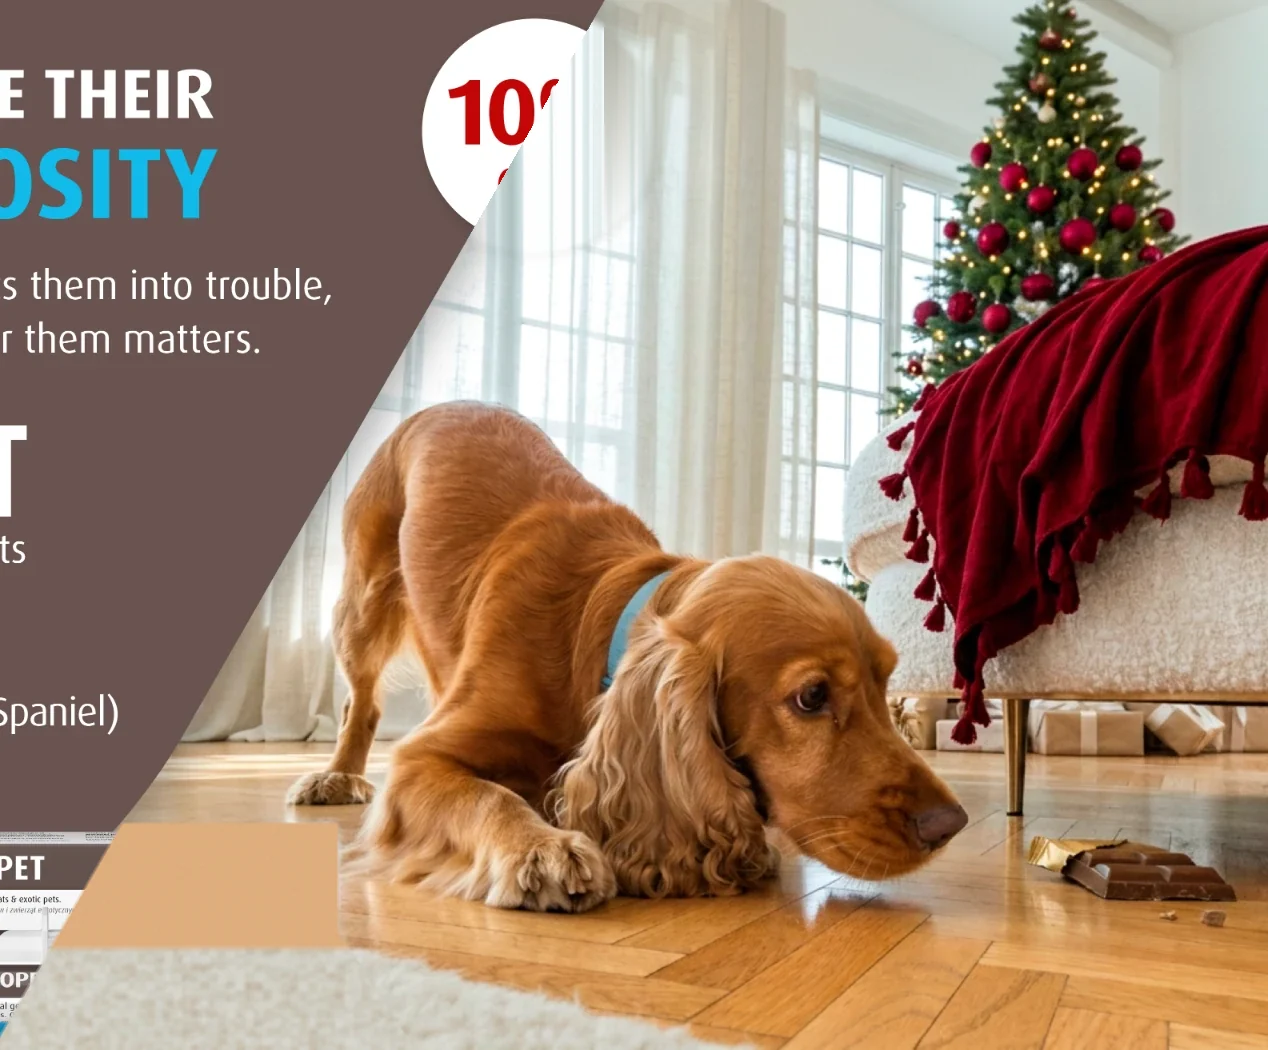
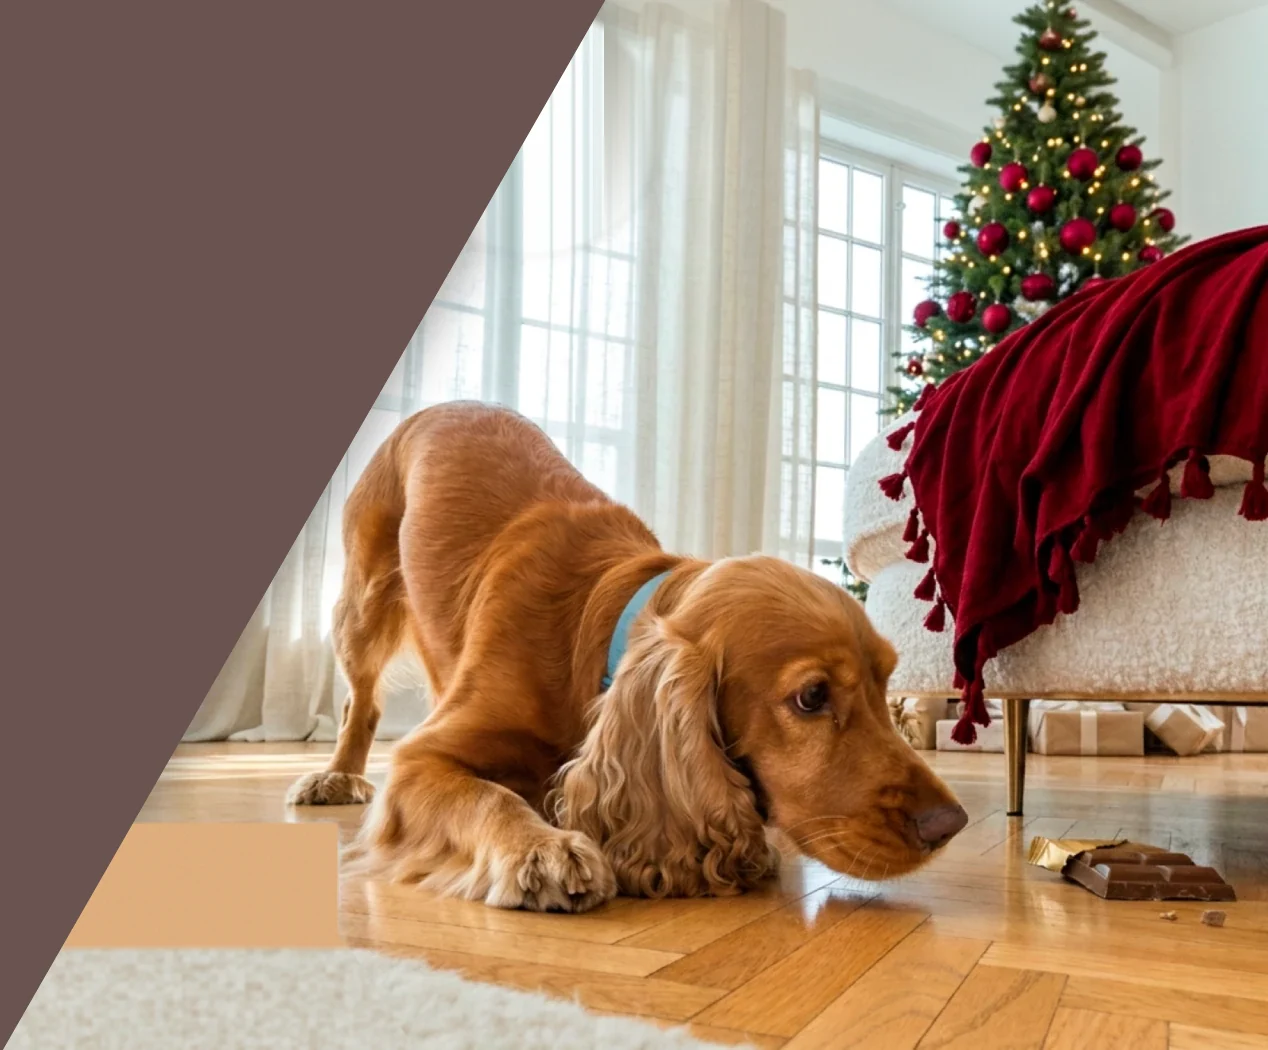
CharcoPet landing: compact first screen, drop offer roundel and eyebrow rules
- Hero and key-facts strip now share the viewport height on desktop: type,
  spacing and the photo scale with the window height (600-870px), so the
  strip is visible without scrolling
- Remove the "10% OFF" roundel from the hero, the leftovers of it in the
  hero photo file, and from the social share image
- Remove the short rule in front of section eyebrow labels

Claude-Session: https://claude.ai/code/session_012sbNdafQU1UvaYmf7wboRR

diff --git a/charcopet/assets/css/charcopet.css b/charcopet/assets/css/charcopet.css
@@ -75,10 +75,9 @@ h1 em,h2 em{
 .lead{font-size:17.5px;font-weight:400;color:#5c5b60;max-width:640px;text-wrap:pretty}
 
 .eyebrow{
-  display:flex;align-items:center;gap:8px;font-size:11px;font-weight:800;letter-spacing:.16em;
+  font-size:11px;font-weight:800;letter-spacing:.16em;
   text-transform:uppercase;color:var(--forte-blue-ink);margin-bottom:12px;
 }
-.eyebrow::before{content:'';width:20px;height:1.5px;background:currentColor;flex:none}
 .micro-label{
   display:inline-flex;align-items:center;font-size:10px;letter-spacing:.1em;text-transform:uppercase;
   color:var(--forte-blue-ink);font-weight:800;
@@ -220,7 +219,7 @@ footer.site-footer{background:var(--forte-black);color:rgba(255,255,255,.78);fon
     linear-gradient(180deg,#fff 0%,var(--forte-grey-tint) 100%);
 }
 .cp-hero__grid{display:grid;grid-template-columns:minmax(0,480px) minmax(0,1fr);gap:84px;align-items:center}
-.cp-hero h1{font-size:clamp(36px,4.6vw,58px);margin:0 0 20px}
+.cp-hero h1{font-size:clamp(36px,4.6vw,58px);line-height:1.14;margin:0 0 20px}
 .cp-hero .lead{font-size:clamp(17.5px,1.5vw,20px);max-width:440px;margin-bottom:30px}
 
 .cp-lockup{padding-top:26px;border-top:1px solid var(--cp-taupe-line);margin-bottom:34px}
@@ -240,9 +239,9 @@ footer.site-footer{background:var(--forte-black);color:rgba(255,255,255,.78);fon
 .cp-hero .btn-ghost{background:rgba(65,64,66,.075)}
 .cp-hero .btn-ghost:hover{background:rgba(65,64,66,.13)}
 
-/* Hero visual — photo + pack + offer roundel share one coordinate system, so
-   every child is positioned in % of the supplied banner artwork. */
-.cp-hero__visual{position:relative;width:100%;aspect-ratio:1268/1050;container-type:inline-size}
+/* Hero visual — photo and pack share one coordinate system, so every child is
+   positioned in % of the supplied banner artwork. */
+.cp-hero__visual{position:relative;width:100%;aspect-ratio:1268/1050}
 .cp-hero__shape{position:absolute;clip-path:url(#cpHeroClip);pointer-events:none}
 .cp-hero__shape--tint{inset:-7% 7% 9% -8%;background:linear-gradient(150deg,rgba(0,171,230,.13),rgba(0,171,230,.03) 70%)}
 .cp-hero__shape--blue{inset:6% -4.5% -5.5% 7%;background:var(--grad)}
@@ -253,18 +252,48 @@ footer.site-footer{background:var(--forte-black);color:rgba(255,255,255,.78);fon
   position:absolute;left:-12.57%;top:77.58%;width:49.7%;height:auto;max-width:none;
   filter:drop-shadow(0 14px 16px rgba(35,34,39,.24)) drop-shadow(0 2px 3px rgba(35,34,39,.16));
 }
-.cp-hero__offer{
-  position:absolute;left:42.11%;top:12.43%;width:18.8%;aspect-ratio:1;transform:translate(-50%,-50%);
-  border-radius:50%;background:#fff;color:#c20a0a;
-  display:flex;flex-direction:column;align-items:center;justify-content:center;line-height:.95;
-  box-shadow:0 12px 30px rgba(35,34,39,.2),0 0 0 1px rgba(35,34,39,.04);
-  font-weight:900;text-align:center;
-}
-.cp-hero__offer b{font-size:7cqw;letter-spacing:-.02em}
-.cp-hero__offer span{font-size:3.3cqw;letter-spacing:.04em;margin-top:.5cqw}
 
 /* ---------- Key facts strip (taupe variant of the site stats strip) ---------- */
 .cp-facts{background:var(--cp-grad-taupe)}
+
+/* ---------- First screen: hero + key facts ----------
+   On desktop the two blocks share the viewport height, so the facts strip is
+   visible without scrolling. --k runs from 0 on a 600px-high viewport to 270px
+   on 870px and taller; type, spacing and the photo all scale along with it. */
+.cp-first{--cp-vh:100vh}
+@supports (height:100svh){.cp-first{--cp-vh:100svh}}
+@media (min-width:981px){
+  .cp-first{
+    --k:clamp(0px,var(--cp-vh) - 600px,270px);
+    --cp-hero-pt:calc(16px + var(--k) * .1333);
+    --cp-hero-pb:calc(26px + var(--k) * .1704);
+    --cp-facts-h:calc(122px + var(--k) * .0889);            /* height of the facts strip */
+    --cp-hero-room:calc(var(--cp-vh) - var(--header-h) - 1px - var(--cp-facts-h) - var(--cp-hero-pt) - var(--cp-hero-pb));
+    display:flex;flex-direction:column;
+    min-height:min(var(--cp-vh) - var(--header-h) - 1px,800px);
+  }
+  .cp-first .cp-hero{flex:1 0 auto;display:flex;align-items:center;padding:var(--cp-hero-pt) 0 var(--cp-hero-pb)}
+  .cp-first .cp-hero__grid{width:100%}
+  .cp-first .eyebrow{margin-bottom:calc(6px + var(--k) * .0222)}
+  .cp-first h1{font-size:min(4.6vw,calc(38px + var(--k) * .0667));margin-bottom:calc(8px + var(--k) * .037)}
+  .cp-first .lead{font-size:clamp(16px,1.5vw,calc(16px + var(--k) * .0148));margin-bottom:calc(12px + var(--k) * .0519)}
+  .cp-first .cp-lockup{padding-top:calc(12px + var(--k) * .0444);margin-bottom:calc(14px + var(--k) * .0593)}
+  .cp-first .cp-wordmark{font-size:clamp(28px,3.1vw,calc(28px + var(--k) * .0444))}
+  .cp-first .cp-lockup__desc{font-size:calc(15px + var(--k) * .0037);margin-top:calc(3px + var(--k) * .0185)}
+  .cp-first .cp-keymsg{font-size:calc(16px + var(--k) * .0037);margin-top:calc(8px + var(--k) * .037)}
+  .cp-first .cp-hero .btn{padding:calc(11px + var(--k) * .0148) calc(24px + var(--k) * .0148)}
+  /* the photo keeps its proportions and takes whatever height is left */
+  .cp-first .cp-hero__visual{justify-self:end;width:min(100%,max(400px,(var(--cp-hero-room) - 6px) * 1.2076))}
+  .cp-first .cp-facts .wrap{padding-top:calc(18px + var(--k) * .0444);padding-bottom:calc(18px + var(--k) * .0444)}
+}
+/* short laptop screens: the key message runs on one line */
+@media (min-width:981px) and (max-height:719px){
+  .cp-first .cp-keymsg b{display:inline}
+}
+/* narrow desktop: both hero buttons stay on one row */
+@media (min-width:981px) and (max-width:1180px){
+  .cp-first .cp-hero .btn{font-size:14.5px;padding-left:20px;padding-right:20px}
+}
 
 /* ---------- Sticky in-page navigation ---------- */
 .cp-subnav{

diff --git a/charcopet/index.html b/charcopet/index.html
@@ -29,7 +29,6 @@
   · Videos: put a YouTube/Vimeo embed URL or an .mp4 path into data-video="" on
     the two .cp-video__frame buttons; the "coming soon" state disappears and the
     button opens the player.
-  · Launch-offer roundel in the hero: delete the .cp-hero__offer element to remove.
 -->
 
 <script type="application/ld+json">
@@ -96,6 +95,9 @@
 
 <main id="main">
 
+<!-- First screen: hero + key facts share the viewport height (see .cp-first in the CSS) -->
+<div class="cp-first">
+
 <!-- ===================== HERO ===================== -->
 <section class="cp-hero" aria-labelledby="cp-hero-title">
   <div class="wrap cp-hero__grid">
@@ -126,7 +128,6 @@
         <img src="assets/img/hero-dog.webp" width="1268" height="1050" alt="A curious cocker spaniel sniffing a bar of chocolate left on the living-room floor" fetchpriority="high" decoding="async">
       </div>
       <img class="cp-hero__pack" src="assets/img/charcopet-pack.webp" width="1188" height="448" alt="CharcoPet carton with two 30 ml dial-dose syringes" decoding="async">
-      <p class="cp-hero__offer" aria-label="10% off"><b aria-hidden="true">10%</b><span aria-hidden="true">OFF</span></p>
     </div>
   </div>
 </section>
@@ -140,6 +141,8 @@
     <div class="stat reveal d3"><b><span data-count="30">30</span><small>kg</small></b><span>Dog covered by one carton (2 × 30 ml syringes)</span></div>
   </div>
 </section>
+
+</div><!-- /.cp-first -->
 
 <!-- ===================== IN-PAGE NAVIGATION ===================== -->
 <nav class="cp-subnav" id="cpSubnav" aria-label="CharcoPet page sections">
